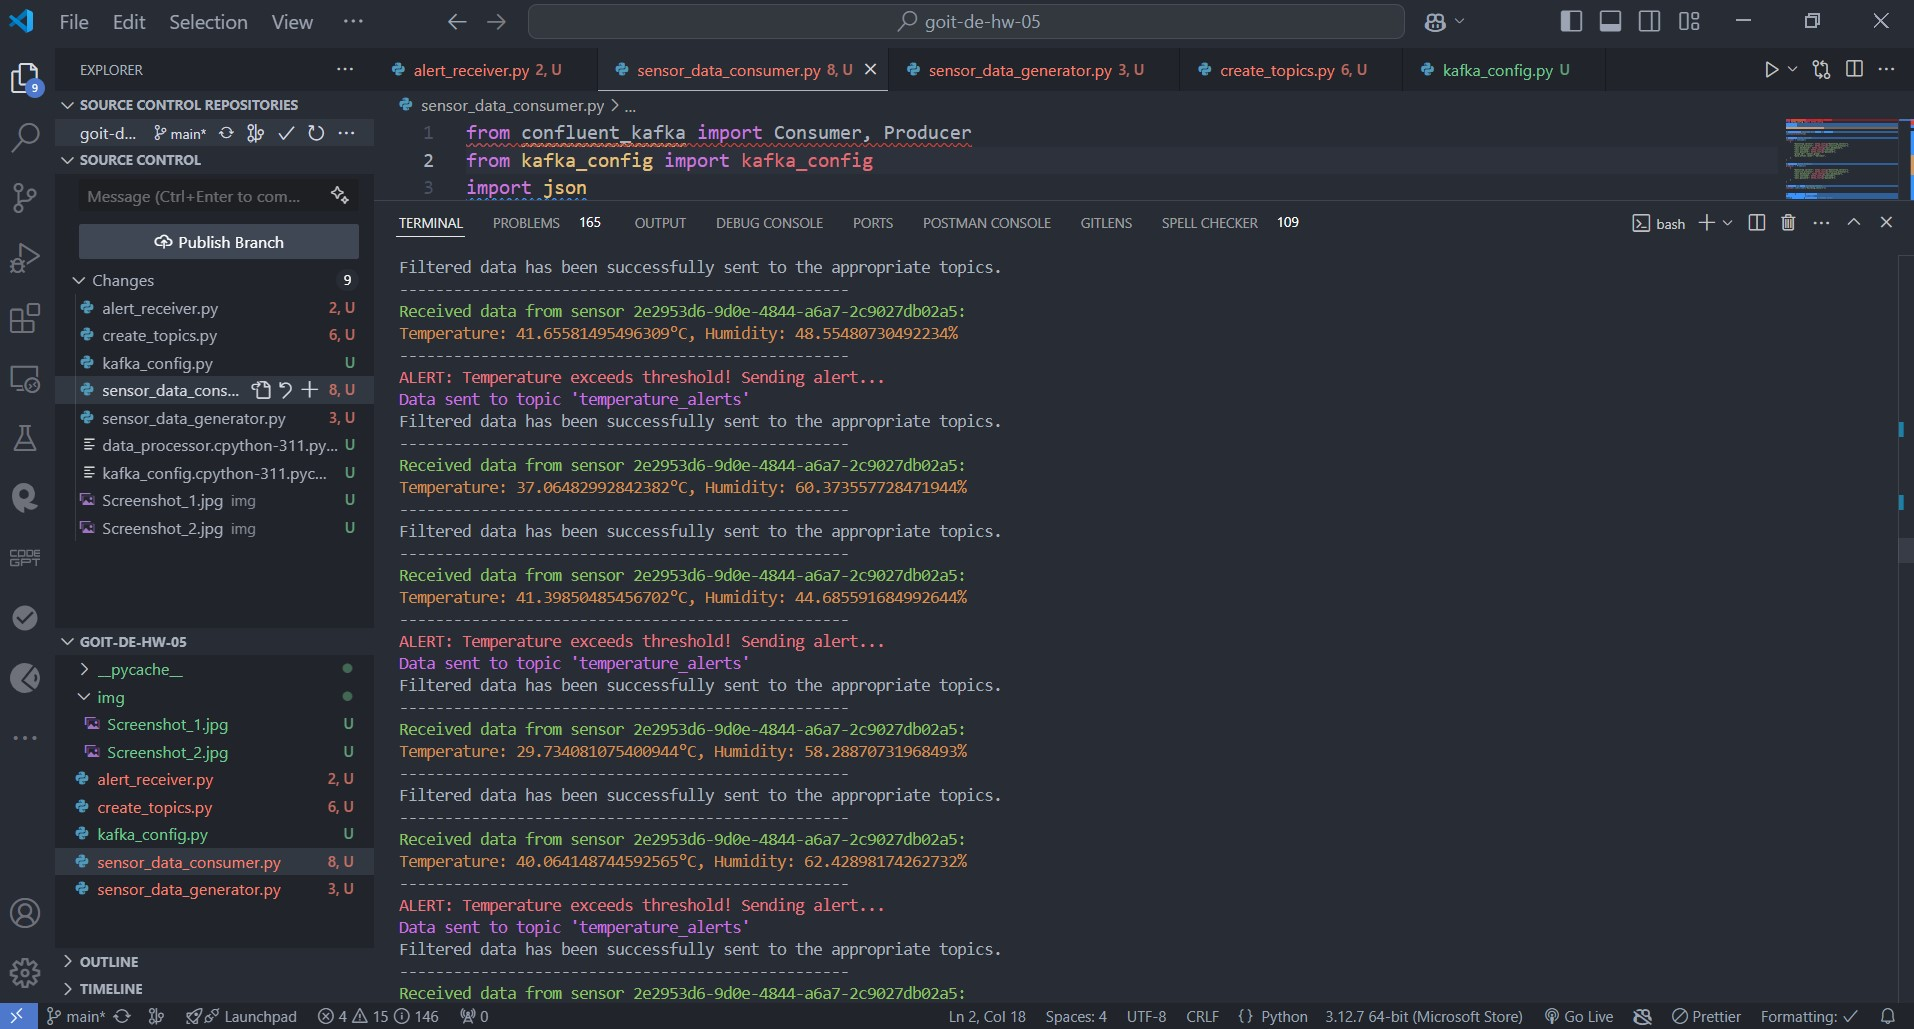
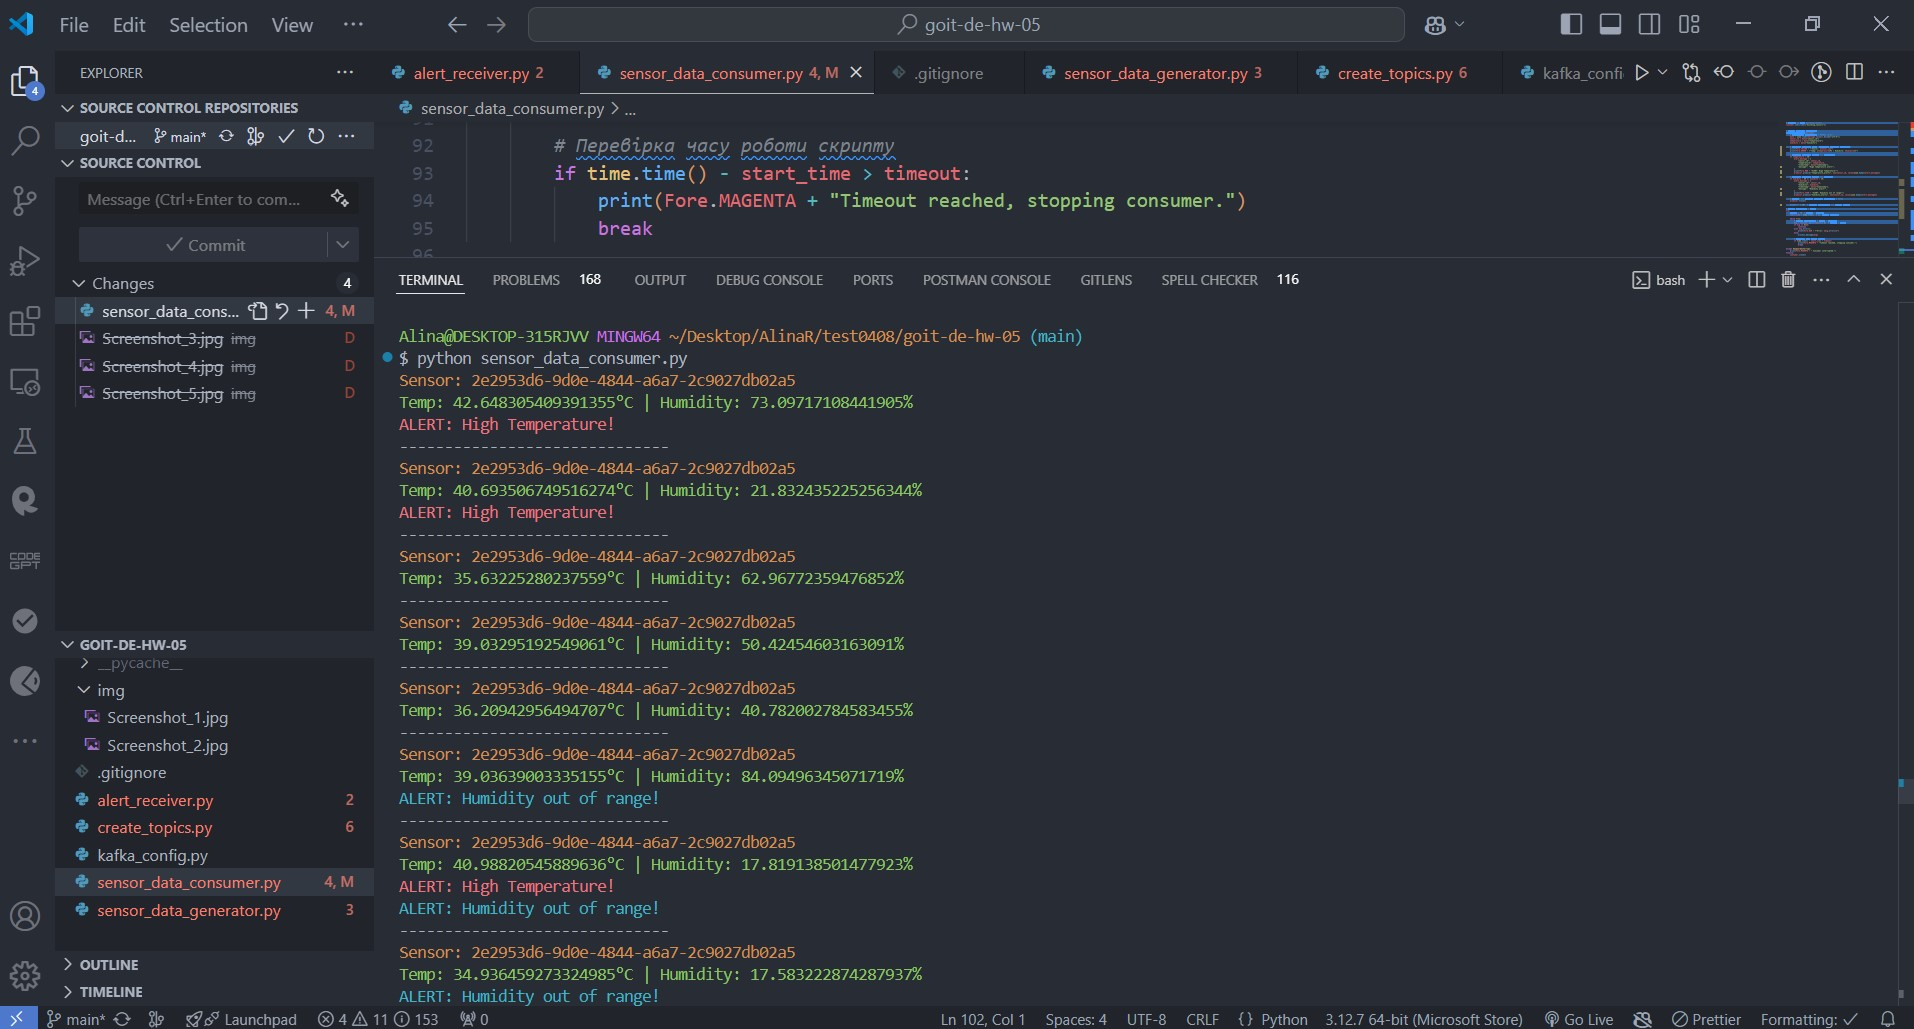
update sensor_data_consumer.py

diff --git a/sensor_data_consumer.py b/sensor_data_consumer.py
@@ -43,51 +43,36 @@ def process_message(message):
     temperature = data["temperature"]
     humidity = data["humidity"]
 
-    # Виведення отриманих даних з кольоровим виводом
-    print(Fore.GREEN + f"Received data from sensor {sensor_id}:")
-    print(Fore.YELLOW + f"Temperature: {temperature}°C, Humidity: {humidity}%")
-    print("-" * 50)
-
-    # Генерація сповіщень для перевищення температури
+    # Виведення отриманих даних (лімітована кількість інформації)
+    print(Fore.YELLOW + f"Sensor: {sensor_id}")
+    print(Fore.GREEN + f"Temp: {temperature}°C | Humidity: {humidity}%")
+    
+    # Перевірка порогових значень для температури
     if temperature > 40:
         alert_message = {
             "sensor_id": sensor_id,
             "temperature": temperature,
             "timestamp": data["timestamp"],
-            "message": "Temperature exceeds threshold!",
+            "message": "High temperature alert!",
         }
-        print(Fore.RED + f"ALERT: Temperature exceeds threshold! Sending alert...")
-        # Відправка сповіщення до топіку temperature_alerts
-        producer.produce(
-            "temperature_alerts", key=sensor_id, value=json.dumps(alert_message)
-        )
-        print(Fore.MAGENTA + f"Data sent to topic 'temperature_alerts'")
+        print(Fore.RED + "ALERT: High Temperature!")
+        producer.produce("temperature_alerts", key=sensor_id, value=json.dumps(alert_message))
 
-    # Генерація сповіщень для вологості
+    # Перевірка порогових значень для вологості
     if humidity > 80 or humidity < 20:
         alert_message = {
             "sensor_id": sensor_id,
             "humidity": humidity,
             "timestamp": data["timestamp"],
-            "message": "Humidity exceeds threshold!",
+            "message": "Humidity alert!",
         }
-        print(Fore.CYAN + f"ALERT: Humidity exceeds threshold! Sending alert...")
-        # Відправка сповіщення до топіку humidity_alerts
-        producer.produce(
-            "humidity_alerts", key=sensor_id, value=json.dumps(alert_message)
-        )
-        print(Fore.MAGENTA + f"Data sent to topic 'humidity_alerts'")
+        print(Fore.CYAN + "ALERT: Humidity out of range!")
+        producer.produce("humidity_alerts", key=sensor_id, value=json.dumps(alert_message))
 
     # Важливо! Для гарантії відправки повідомлень у Kafka
     producer.flush()
 
-    # Додатково для результату фільтрації і запису в топіки:
-    print(
-        Fore.WHITE
-        + "Filtered data has been successfully sent to the appropriate topics."
-    )
-    print("-" * 50)
-
+    print("-" * 30)  # Розділяє повідомлення для кожного сенсора
 
 # Обробка повідомлень з топіку
 try:
